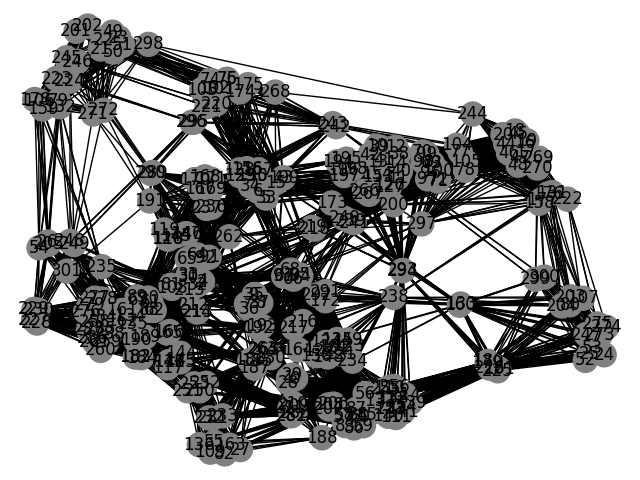
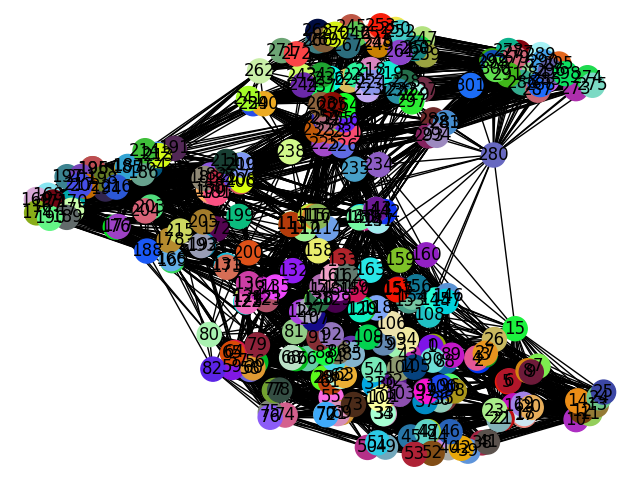
corrigido o erro da coloração

diff --git a/principal.py b/principal.py
@@ -6,6 +6,7 @@ import pandas as pd
 import random
 start_time = time.time()
 
+
 class Vertice(object):
     def __init__(self, idVertice, materia, turma, professor):
         self.idVertice = idVertice
@@ -13,31 +14,26 @@ class Vertice(object):
         self.turma = turma
         self.professor = professor
         self.adjacents = []
-        self.idTarefa = -1
-        self.saturacao = 0
-
+        self.horarioId = None
+        self.saturacao = -1
 
 
 class Escola(object):
     def __init__(self):
-        self.professores = {}
-        self.materias = {}
-        self.turmas = {}
-        self.horariosResult = []
+        self.vertices = []
+        self.listaVerticesId = []
+        self.listaCores = []
         self.cores = 0
-        self.tarefas = []
+        self.horario = []
+        self.verticeNaoColorido = []
         self.G = nx.Graph()
         self.lerDadosEscolaArquivo()
-        # print(self.professores)
         self.criarAdjacencias()
         self.colorir()
+        self.adicionaCores()
         self.printar()
 
-        
         # print(df.tail(3))
-
-    
-
 
     def lerDadosEscolaArquivo(self):
         fileXLSX = pd.ExcelFile('./public/files/Escola_A.xlsx')
@@ -46,42 +42,45 @@ class Escola(object):
         verticeId = 0
         for linha in listaArquivo:
             for i in range(int(linha[3])):
+                self.listaVerticesId.append(verticeId)
                 vertice = Vertice(verticeId, linha[0], linha[1], linha[2])
                 self.G.add_node(verticeId)
-                self.horariosResult.append('gray')
-                self.professores[verticeId] = vertice
+                self.vertices.append(vertice)
                 verticeId += 1
 
     def criarAdjacencias(self):
-        for v1 in self.professores.values():
-            for v2 in self.professores.values():
-                if(v1.idVertice != v2.idVertice and (v1.materia == v2.materia or v1.professor == v2.professor)):
+        for v1 in self.vertices:
+            for v2 in self.vertices:
+                if(v1.idVertice != v2.idVertice and (v1.turma == v2.turma or v1.professor == v2.professor)):
                     v1.adjacents.append(v2)
                     v2.adjacents.append(v1)
                     self.G.add_edge(v1.idVertice, v2.idVertice)
-                    self.G[v1.idVertice][v2.idVertice]['color']='red'
 
+    def adicionaCores(self):
+
+        for i in range(len(self.vertices)):
+            r = lambda: random.randint(0, 255)
+            color = '#{:02x}{:02x}{:02x}'.format(r(), r(), r())
+            self.listaCores.append(color)
 
     def printar(self):
         print("Nodes of graph: ")
         print(self.G.nodes())
         print("Edges of graph: ")
         print(self.G.edges())
-        
+        print("Quantidade de cor: ")
+        print(self.cores)
 
-        for v1 in self.professores.values():
-            # print(v)
-            if(v1.idTarefa != None) :
-                print("Horário: ", self.tarefas[v1.idTarefa], "|| Matéria: ", v1.materia, " || Professor: ", v1.professor, " || Turma: ", v1.turma)
+        for v1 in self.vertices:
+            if(v1.horarioId != None) :
+                print("Horário: ", self.horario[v1.horarioId], "|| Matéria: ", v1.materia, " || Professor: ", v1.professor, " || Turma: ", v1.turma)
                 # print("Matéria: ", v1.materia)
                 # print("Professor: ", v1.professor)
                 # print("Turma: ", v1.turma)
 
-
-        nx.draw(self.G, node_color = self.horariosResult, with_labels = True)
+        nx.draw(self.G, node_color = self.listaCores, with_labels = True)
         plt.savefig("simple_path.png") # save as png
         plt.show() # display
-
 
     def colorir(self):
         days_week = ["Segunda", "Terça", "Quarta", "Quinta", "Sexta"]
@@ -97,31 +96,65 @@ class Escola(object):
 
         for day in days_week:
             for hour in hours:
-                self.tarefas.append("{} - {}".format(day, hour))
+                self.horario.append("{} - {}".format(day, hour))
 
-        notColoring = []
-       
-        verticeMaiorSaturacao = self.professores[1]
-        for v1 in self.professores.values():
-            if(v1.saturacao > verticeMaiorSaturacao.saturacao or (v1.saturacao == verticeMaiorSaturacao.saturacao
-                and len(v1.adjacents) > len(verticeMaiorSaturacao.adjacents))):
-                verticeMaiorSaturacao = v1
+        self.vertices.sort(key=lambda x: x.saturacao, reverse=True)
+        
+
+        while(len(self.listaVerticesId) > 0):
+            self.listaVerticesId.sort(reverse=True)
+            maxVertice = self.vertices[self.listaVerticesId[0]]
+            for index in self.listaVerticesId:
+                if(self.vertices[index].saturacao > maxVertice.saturacao or (self.vertices[index].saturacao == maxVertice.saturacao and len(self.vertices[index].adjacents) > len(maxVertice.adjacents))):
+                    maxVertice = self.vertices[index]
 
 
             colorValidate = False
-            while(self.cores < len(self.tarefas) and not colorValidate):
+            while(self.cores < len(self.horario) and not colorValidate):
                 colorValidate = True
-                for adjacent in verticeMaiorSaturacao.adjacents:
-                    if(adjacent.idTarefa == self.cores ):
+                for adjacent in maxVertice.adjacents:
+                    if(adjacent.horarioId == self.cores ):
                         colorValidate = False
                         self.cores  += 1
 
-            if(self.cores < len(self.tarefas)):
-                for adjacent in verticeMaiorSaturacao.adjacents:
+            if(self.cores < len(self.horario)):
+                for adjacent in maxVertice.adjacents:
                     adjacent.saturacao += 1
-                verticeMaiorSaturacao.idTarefa = self.cores 
+                maxVertice.horarioId = self.cores 
             else:
-                notColoring.append(verticeMaiorSaturacao.idVertice)
+                self.verticeNaoColorido.append(maxVertice.idVertice)
+
+            if maxVertice.idVertice in self.listaVerticesId:
+                self.listaVerticesId.remove(maxVertice.idVertice)
+
+
+
+
+       
+        # for u in self.vertices:
+        #     maxVertice = u
+
+        #     for v in self.vertices:
+        #         if(v.saturacao > verticeMaiorSaturacao.saturacao or (v.saturacao == verticeMaiorSaturacao.saturacao and len(v.adjacents) > len(verticeMaiorSaturacao.adjacents))):
+        #             verticeMaiorSaturacao = v
+
+
+        #     colorValidate = False
+        #     while(self.cores < len(self.horario) and not colorValidate):
+        #         colorValidate = True
+        #         for adjacent in verticeMaiorSaturacao.adjacents:
+        #             if(adjacent.horarioId == self.cores ):
+        #                 colorValidate = False
+        #                 self.cores  += 1
+
+        #     if(self.cores < len(self.horario)):
+        #         for adjacent in verticeMaiorSaturacao.adjacents:
+        #             adjacent.saturacao += 1
+        #         verticeMaiorSaturacao.horarioId = self.cores 
+        #     else:
+        #         self.verticeNaoColorido.append(verticeMaiorSaturacao.idVertice)
+
+            
 
         
 
